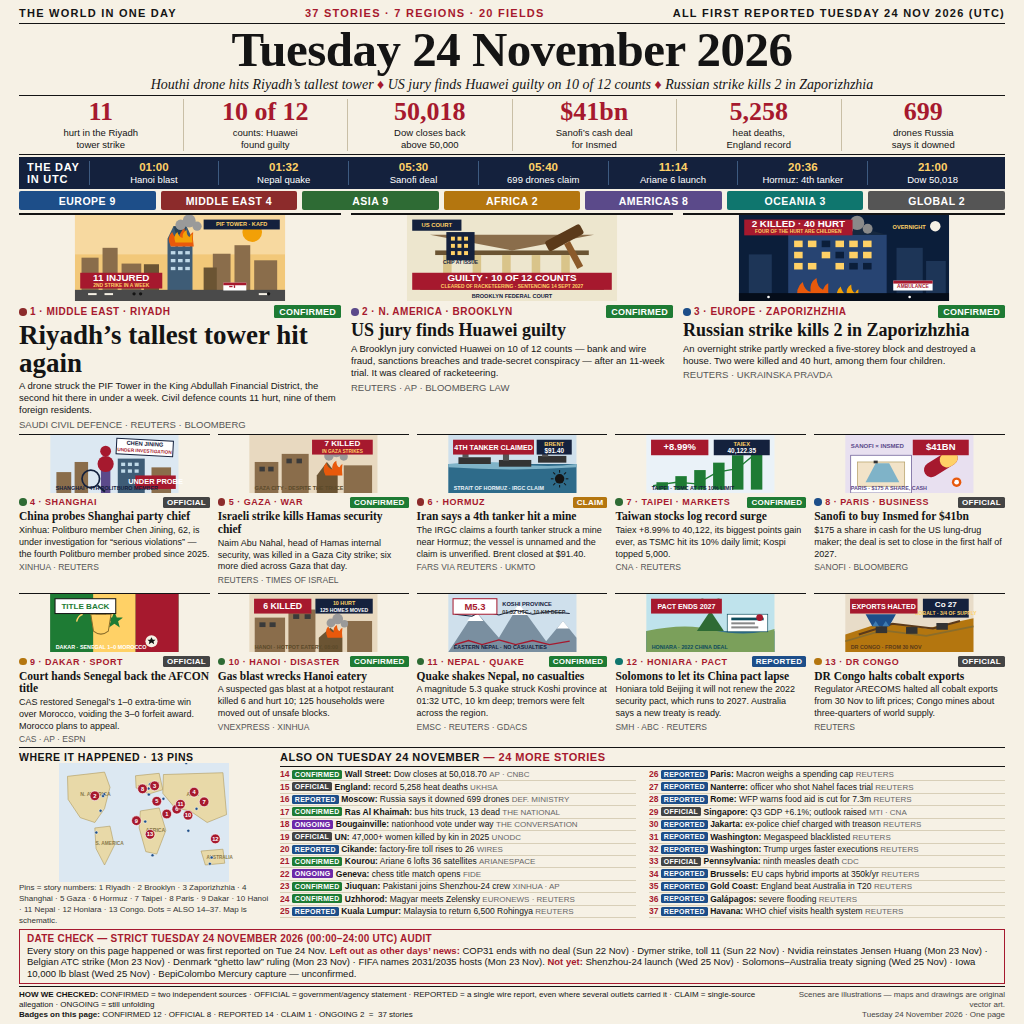
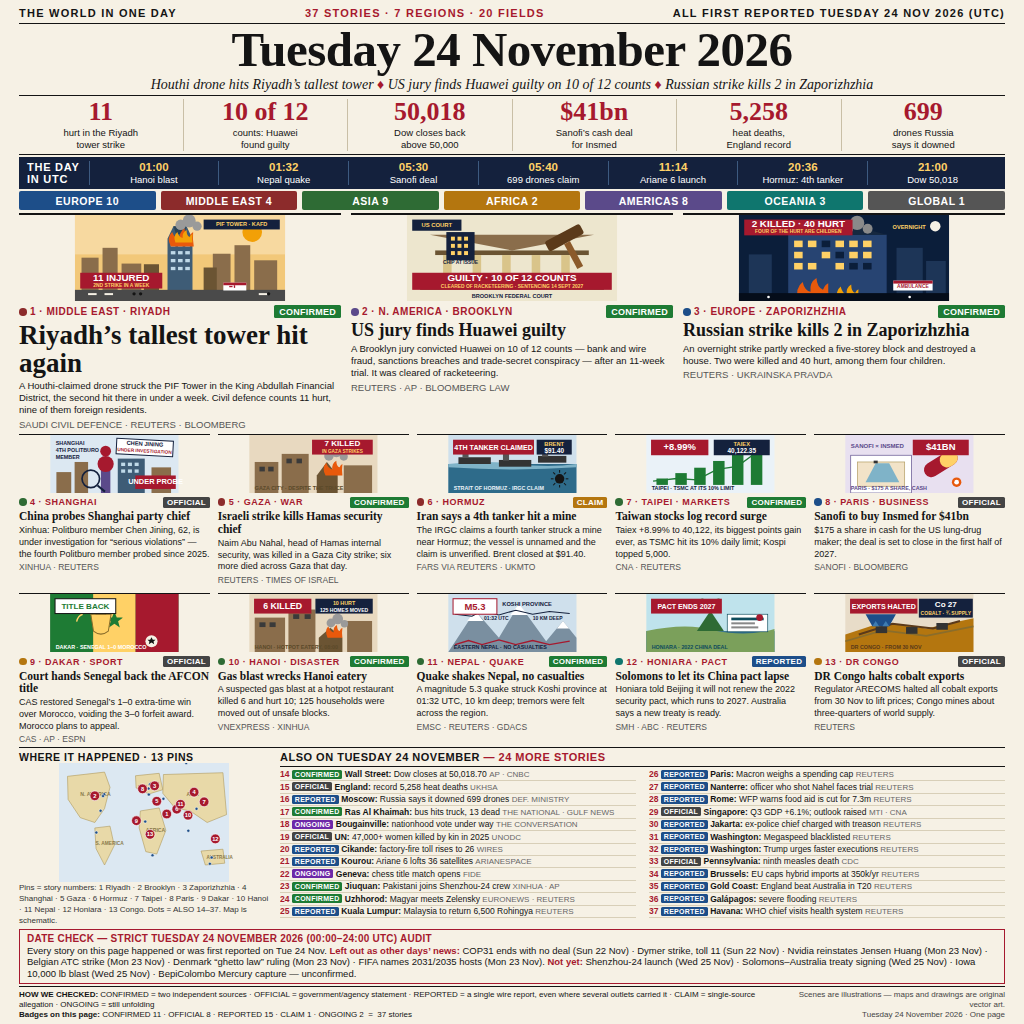
news-image-20261124 v3 fix 8: #21 downgraded REPORTED (Reuters unverified, ESA only via own video); #17 keeps CONFIRMED + GULF NEWS; Hero 13 cobalt box widened + ¾ label; Hero 4 label to top sky; Hero 7 bars shortened; Hero 11 time split below waveform; regions EU 10 / Global 1; Hero 1 Houthi-claime

diff --git a/build/front.html b/build/front.html
@@ -97,13 +97,13 @@ h1{font-size:98px;line-height:1.04;text-align:center;letter-spacing:-1px;padding
   <div class="tick"><div class="t">21:00</div><div class="d">Dow 50,018</div></div>
 </div>
 <div class="regions">
-  <div class="chip c-eu">EUROPE 9</div>
+  <div class="chip c-eu">EUROPE 10</div>
   <div class="chip c-me">MIDDLE EAST 4</div>
   <div class="chip c-as">ASIA 9</div>
   <div class="chip c-af">AFRICA 2</div>
   <div class="chip c-am">AMERICAS 8</div>
   <div class="chip c-oc">OCEANIA 3</div>
-  <div class="chip c-gl">GLOBAL 2</div>
+  <div class="chip c-gl">GLOBAL 1</div>
 </div>
 <div class="heroes">
 <div class="hero big">
@@ -132,7 +132,7 @@ h1{font-size:98px;line-height:1.04;text-align:center;letter-spacing:-1px;padding
 </svg>
 <div class="tagrow"><span class="kicker"><span class="dot" style="background:#8C2B2B"></span>1 &middot; MIDDLE EAST &middot; RIYADH</span><span class="badge b-conf">CONFIRMED</span></div>
 <h2>Riyadh&rsquo;s tallest tower hit again</h2>
-<p>A drone struck the PIF Tower in the King Abdullah Financial District, the second hit there in under a week. Civil defence counts 11 hurt, nine of them foreign residents.</p>
+<p>A Houthi-claimed drone struck the PIF Tower in the King Abdullah Financial District, the second hit there in under a week. Civil defence counts 11 hurt, nine of them foreign residents.</p>
 <div class="src">SAUDI CIVIL DEFENCE &middot; REUTERS &middot; BLOOMBERG</div>
 </div>
 <div class="hero">
@@ -202,7 +202,9 @@ h1{font-size:98px;line-height:1.04;text-align:center;letter-spacing:-1px;padding
 <line x1="140" y1="150" x2="162" y2="168" stroke="#14213D" stroke-width="6"/>
 <rect x="252" y="120" width="120" height="40" fill="#A6192E"/>
 <text x="312" y="146" font-family="Arial" font-size="22" font-weight="bold" fill="#fff" text-anchor="middle">UNDER PROBE</text>
-<text x="16" y="164" font-family="Arial" font-size="16" font-weight="bold" fill="#14213D">SHANGHAI &middot; 4TH POLITBURO MEMBER</text>
+<text x="16" y="30" font-family="Arial" font-size="16" font-weight="bold" fill="#14213D">SHANGHAI</text>
+<text x="16" y="50" font-family="Arial" font-size="16" font-weight="bold" fill="#14213D">4TH POLITBURO</text>
+<text x="16" y="70" font-family="Arial" font-size="16" font-weight="bold" fill="#14213D">MEMBER</text>
 </svg>
 <div class="tagrow"><span class="kicker"><span class="dot" style="background:#2E6B34"></span>4 &middot; SHANGHAI</span><span class="badge b-off">OFFICIAL</span></div>
 <h3>China probes Shanghai party chief</h3>
@@ -253,8 +255,8 @@ h1{font-size:98px;line-height:1.04;text-align:center;letter-spacing:-1px;padding
 <div class="card">
 <svg viewBox="0 0 380 172" xmlns="http://www.w3.org/2000/svg">
 <rect width="380" height="172" fill="#EAF2F8"/>
-<polyline points="20,150 90,140 150,145 210,110 270,100 330,50 360,40" fill="none" stroke="#1E7B34" stroke-width="4"/>
-<g fill="#1E7B34"><rect x="30" y="140" width="34" height="22"/><rect x="86" y="122" width="34" height="40"/><rect x="142" y="104" width="34" height="58"/><rect x="198" y="82" width="34" height="80"/><rect x="254" y="60" width="34" height="102"/><rect x="310" y="40" width="34" height="122"/></g>
+<polyline points="20,137 90,129 150,133 210,102 270,93 330,49 360,40" fill="none" stroke="#1E7B34" stroke-width="4"/>
+<g fill="#1E7B34"><rect x="30" y="129" width="34" height="19"/><rect x="86" y="113" width="34" height="35"/><rect x="142" y="97" width="34" height="51"/><rect x="198" y="77" width="34" height="71"/><rect x="254" y="58" width="34" height="90"/><rect x="310" y="40" width="34" height="108"/></g>
 <rect x="14" y="14" width="170" height="46" fill="#A6192E"/>
 <text x="99" y="45" font-family="Arial" font-size="28" font-weight="bold" fill="#fff" text-anchor="middle">+8.99%</text>
 <rect x="200" y="14" width="166" height="46" fill="#14213D"/>
@@ -334,7 +336,8 @@ h1{font-size:98px;line-height:1.04;text-align:center;letter-spacing:-1px;padding
 <rect x="14" y="14" width="130" height="46" fill="#fff" stroke="#A6192E" stroke-width="3"/>
 <text x="79" y="46" font-family="Arial" font-size="28" font-weight="bold" fill="#A6192E" text-anchor="middle">M5.3</text>
 <text x="160" y="36" font-family="Arial" font-size="17" font-weight="bold" fill="#14213D">KOSHI PROVINCE</text>
-<text x="160" y="58" font-family="Arial" font-size="16" font-weight="bold" fill="#333">01:32 UTC &middot; 10 KM DEEP</text>
+<text x="106" y="76" font-family="Arial" font-size="15" font-weight="bold" fill="#14213D">01:32 UTC</text>
+<text x="250" y="76" font-family="Arial" font-size="15" font-weight="bold" fill="#14213D">10 KM DEEP</text>
 <text x="16" y="164" font-family="Arial" font-size="16" font-weight="bold" fill="#14213D">EASTERN NEPAL &middot; NO CASUALTIES</text>
 </svg>
 <div class="tagrow"><span class="kicker"><span class="dot" style="background:#2E6B34"></span>11 &middot; NEPAL &middot; QUAKE</span><span class="badge b-conf">CONFIRMED</span></div>
@@ -371,9 +374,9 @@ h1{font-size:98px;line-height:1.04;text-align:center;letter-spacing:-1px;padding
 <g fill="#333"><rect x="90" y="96" width="34" height="20"/><rect x="180" y="98" width="34" height="20"/><rect x="270" y="86" width="34" height="20"/></g>
 <path d="M60,60 L150,60 L130,96 L80,96 Z" fill="#1D4E89"/>
 <g fill="#3E7CB1"><polygon points="80,96 90,80 100,96"/><polygon points="110,96 120,80 130,96"/></g>
-<rect x="230" y="14" width="136" height="56" fill="#14213D"/>
+<rect x="218" y="14" width="160" height="56" fill="#14213D"/>
 <text x="298" y="40" font-family="Arial" font-size="24" font-weight="bold" fill="#fff" text-anchor="middle">Co 27</text>
-<text x="298" y="62" font-family="Arial" font-size="15" font-weight="bold" fill="#FFD166" text-anchor="middle">COBALT &middot; 3/4 OF SUPPLY</text>
+<text x="298" y="62" font-family="Arial" font-size="15" font-weight="bold" fill="#FFD166" text-anchor="middle">COBALT &middot; ¾ SUPPLY</text>
 <rect x="14" y="14" width="200" height="44" fill="#A6192E"/>
 <text x="114" y="44" font-family="Arial" font-size="21" font-weight="bold" fill="#fff" text-anchor="middle">EXPORTS HALTED</text>
 <text x="16" y="164" font-family="Arial" font-size="16" font-weight="bold" fill="#5B3A1A">DR CONGO &middot; FROM 30 NOV</text>
@@ -435,11 +438,11 @@ h1{font-size:98px;line-height:1.04;text-align:center;letter-spacing:-1px;padding
 <div class="it"><b>14</b> <span class="bdg b-conf">CONFIRMED</span> <span class="pl">Wall Street:</span> Dow closes at 50,018.70 <span class="sr">AP &middot; CNBC</span></div>
 <div class="it"><b>15</b> <span class="bdg b-off">OFFICIAL</span> <span class="pl">England:</span> record 5,258 heat deaths <span class="sr">UKHSA</span></div>
 <div class="it"><b>16</b> <span class="bdg b-rep">REPORTED</span> <span class="pl">Moscow:</span> Russia says it downed 699 drones <span class="sr">DEF. MINISTRY</span></div>
-<div class="it"><b>17</b> <span class="bdg b-conf">CONFIRMED</span> <span class="pl">Ras Al Khaimah:</span> bus hits truck, 13 dead <span class="sr">THE NATIONAL</span></div>
+<div class="it"><b>17</b> <span class="bdg b-conf">CONFIRMED</span> <span class="pl">Ras Al Khaimah:</span> bus hits truck, 13 dead <span class="sr">THE NATIONAL &middot; GULF NEWS</span></div>
 <div class="it"><b>18</b> <span class="bdg b-ongo">ONGOING</span> <span class="pl">Bougainville:</span> nationhood vote under way <span class="sr">THE CONVERSATION</span></div>
 <div class="it"><b>19</b> <span class="bdg b-off">OFFICIAL</span> <span class="pl">UN:</span> 47,000+ women killed by kin in 2025 <span class="sr">UNODC</span></div>
 <div class="it"><b>20</b> <span class="bdg b-rep">REPORTED</span> <span class="pl">Cikande:</span> factory-fire toll rises to 26 <span class="sr">WIRES</span></div>
-<div class="it"><b>21</b> <span class="bdg b-conf">CONFIRMED</span> <span class="pl">Kourou:</span> Ariane 6 lofts 36 satellites <span class="sr">ARIANESPACE</span></div>
+<div class="it"><b>21</b> <span class="bdg b-rep">REPORTED</span> <span class="pl">Kourou:</span> Ariane 6 lofts 36 satellites <span class="sr">ARIANESPACE</span></div>
 <div class="it"><b>22</b> <span class="bdg b-ongo">ONGOING</span> <span class="pl">Geneva:</span> chess title match opens <span class="sr">FIDE</span></div>
 <div class="it"><b>23</b> <span class="bdg b-conf">CONFIRMED</span> <span class="pl">Jiuquan:</span> Pakistani joins Shenzhou-24 crew <span class="sr">XINHUA &middot; AP</span></div>
 <div class="it"><b>24</b> <span class="bdg b-conf">CONFIRMED</span> <span class="pl">Uzhhorod:</span> Magyar meets Zelensky <span class="sr">EURONEWS &middot; REUTERS</span></div>
@@ -468,7 +471,7 @@ h1{font-size:98px;line-height:1.04;text-align:center;letter-spacing:-1px;padding
 </div>
 <div class="footer">
 <div class="badges"><b>HOW WE CHECKED:</b> CONFIRMED = two independent sources &middot; OFFICIAL = government/agency statement &middot; REPORTED = a single wire report, even where several outlets carried it &middot; CLAIM = single-source allegation &middot; ONGOING = still unfolding<br>
-<b>Badges on this page:</b> CONFIRMED 12 &middot; OFFICIAL 8 &middot; REPORTED 14 &middot; CLAIM 1 &middot; ONGOING 2 &nbsp;=&nbsp; 37 stories</div>
+<b>Badges on this page:</b> CONFIRMED 11 &middot; OFFICIAL 8 &middot; REPORTED 15 &middot; CLAIM 1 &middot; ONGOING 2 &nbsp;=&nbsp; 37 stories</div>
 <div class="note">Scenes are illustrations &mdash; maps and drawings are original vector art.<br>Tuesday 24 November 2026 &middot; One page</div>
 </div>
 </div></body></html>

diff --git a/main.py b/main.py
@@ -112,6 +112,22 @@ def check_png(blob):
             die("inflated image is %d bytes, expected %d" % (len(raw), want_len))
 
 
+def verify_output(dest, blob, want):
+    """Re-read the written file and prove it is the same valid PNG.
+
+    A hash match alone cannot catch a file that was truncated after
+    the write, so the bytes are run through the full PNG structure
+    check again instead of trusting the hash by itself.
+    """
+    back = dest.read_bytes()
+    check_png(back)
+    if hashlib.sha256(back).hexdigest() != want:
+        die("output hash does not match the source")
+    if len(back) != len(blob):
+        die("output size does not match the source")
+    return back
+
+
 def target_path():
     raw = os.environ.get("MAKEFUN_OUTPUT_DIR")
     if not raw:
@@ -135,15 +151,11 @@ def run():
         out.flush()
         os.fsync(out.fileno())
     os.chmod(dest, 0o644)
-    back = dest.read_bytes()
-    if hashlib.sha256(back).hexdigest() != want:
-        die("output hash does not match the source")
-    if len(back) != len(blob):
-        die("output size does not match the source")
+    back = verify_output(dest, blob, want)
     mode = os.stat(dest).st_mode & 0o777
     if mode != 0o644:
         die("output mode is %03o, expected 644" % mode)
-    print("wrote %s (%d bytes, sha256=%s, mode=0644)" % (dest, len(blob), want))
+    print("wrote %s (%d bytes, sha256=%s, mode=0644, revalidated)" % (dest, len(blob), want))
 
 
 if __name__ == "__main__":
